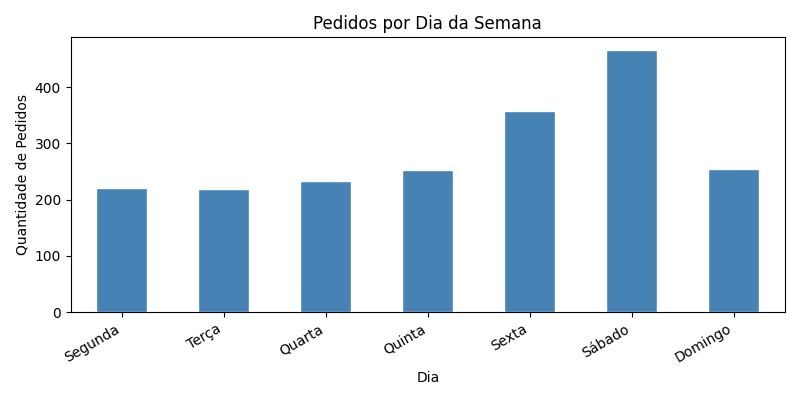
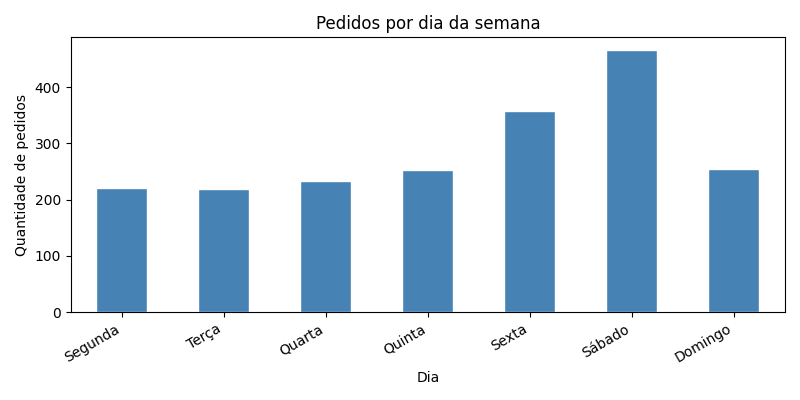
refactor: enhance data loading and visualization in analysis script; update test cases for metrics

Changed region(s): [[0.375, 0.03, 0.6875, 0.09], [0.0, 0.24, 0.0312, 0.66]]

diff --git a/backend/app/analise.py b/backend/app/analise.py
@@ -10,9 +10,9 @@ df_restaurantes = pd.read_csv("../../data/restaurantes.csv")
 df_avaliacoes = pd.read_csv("../../data/avaliacoes.csv")
 
 
-print("Pedidos carregados:", len(df_pedidos), "linhas")
-print("Restaurantes carregados:", len(df_restaurantes), "linhas")
-print("Avaliações carregadas:", len(df_avaliacoes), "linhas")
+print(f"Pedidos carregados:      {len(df_pedidos):>5} linhas")
+print(f"Restaurantes carregados: {len(df_restaurantes):>5} linhas")
+print(f"Avaliações carregadas:   {len(df_avaliacoes):>5} linhas")
 
 
 print("\nMétricas gerais:\n")
@@ -63,6 +63,7 @@ quantidade_pedidos_por_dia = (
     .groupby("dia_semana")
     .size()
     .reindex(ordem_dias_semana)
+    .rename_axis(None)
 )
 
 print(quantidade_pedidos_por_dia.to_string())
@@ -119,16 +120,16 @@ quantidade_pedidos_por_dia.plot(
     edgecolor="white"
 )
 
-ax.set_title("Pedidos por Dia da Semana")
+ax.set_title("Pedidos por dia da semana")
 ax.set_xlabel("Dia")
-ax.set_ylabel("Quantidade de Pedidos")
+ax.set_ylabel("Quantidade de pedidos")
 ax.set_xticklabels(ax.get_xticklabels(), rotation=30, ha="right")
 
 plt.tight_layout()
 plt.savefig("graficos/pedidos_por_dia.png")
 plt.close()
 
-print("Gráfico salvo: graficos/pedidos_por_dia.png")
+print("\nGráfico de pedidos por dia da semana gerado e salvo em: graficos/pedidos_por_dia_da_semana.png")
 
 
 # Gráfico 2: percentual de pedidos atrasados por clima
@@ -146,7 +147,7 @@ percentual_atraso_por_clima.plot(
     edgecolor="white"
 )
 
-ax.set_title("% de Pedidos Atrasados por Clima")
+ax.set_title("% de Pedidos atrasados por clima")
 ax.set_xlabel("Clima")
 ax.set_ylabel("% Atrasados")
 ax.set_xticklabels(ax.get_xticklabels(), rotation=0)
@@ -155,70 +156,25 @@ plt.tight_layout()
 plt.savefig("graficos/atraso_por_clima.png")
 plt.close()
 
-print("Gráfico salvo: graficos/atraso_por_clima.png")
+print("\nGráfico de atraso por clima gerado e salvo em: graficos/atraso_por_clima.png")
 
 
-# Gráfico 3: quantidade de avaliações por nota
-fig, ax = plt.subplots(figsize=(6, 4))
+# Gráfico 3: top 5 restaurantes por nota média
+fig, ax = plt.subplots(figsize=(8, 4))
 
-quantidade_avaliacoes_por_nota = (
-    df_avaliacoes["nota"]
-    .value_counts()
-    .sort_index()
-)
-
-quantidade_avaliacoes_por_nota.plot(
-    kind="bar",
+top_5_restaurantes_por_nota.sort_values().plot(
+    kind="barh",
     ax=ax,
-    color="gold",
+    color="coral",
     edgecolor="white"
 )
 
-ax.set_title("Distribuição das Notas")
-ax.set_xlabel("Nota")
-ax.set_ylabel("Quantidade de Avaliações")
-ax.set_xticklabels(ax.get_xticklabels(), rotation=0)
+ax.set_title("Top 5 restaurantes por nota média")
+ax.set_xlabel("Nota média")
+ax.set_ylabel("Restaurante")
 
 plt.tight_layout()
-plt.savefig("graficos/distribuicao_notas.png")
+plt.savefig("graficos/top5_restaurantes.png")
 plt.close()
 
-print("Gráfico salvo: graficos/distribuicao_notas.png")
-
-
-# Gráfico 4: valor médio dos pedidos por tipo de culinária
-df_pedidos_com_culinaria = df_pedidos.merge(
-    df_restaurantes[["id_restaurante", "tipo_culinaria"]],
-    on="id_restaurante"
-)
-
-valor_medio_pedido_por_culinaria = (
-    df_pedidos_com_culinaria
-    .groupby("tipo_culinaria")["valor_pedido"]
-    .mean()
-    .sort_values(ascending=False)
-)
-
-fig, ax = plt.subplots(figsize=(9, 4))
-
-valor_medio_pedido_por_culinaria.plot(
-    kind="bar",
-    ax=ax,
-    color="mediumseagreen",
-    edgecolor="white"
-)
-
-ax.set_title("Ticket Médio por Tipo de Culinária")
-ax.set_xlabel("Tipo de Culinária")
-ax.set_ylabel("Valor Médio (R$)")
-ax.set_xticklabels(ax.get_xticklabels(), rotation=35, ha="right")
-
-plt.tight_layout()
-plt.savefig("graficos/ticket_por_culinaria.png")
-plt.close()
-
-print("Gráfico salvo: graficos/ticket_por_culinaria.png")
-
-
-print()
-print("Análise concluída!")
+print("\nGráfico de top 5 restaurantes gerado e salvo em: graficos/top5_restaurantes.png")

diff --git a/backend/app/test_metricas.py b/backend/app/test_metricas.py
@@ -5,16 +5,28 @@ import pytest
 @pytest.fixture
 def pedidos():
     return pd.DataFrame({
-        "valor_pedido": [50.0, 30.0, 20.0, 100.0],
-        "atrasado":     [1,    0,    1,    0],
-        "tempo_total_minutos": [40, 20, 60, 30],
+        "valor_pedido":        [50.0, 30.0, 20.0, 100.0],
+        "atrasado":            [1,    0,    1,    0],
+        "tempo_total_minutos": [40,   20,   60,   30],
+        "dia_semana":          ["Segunda", "Sexta", "Segunda", "Sábado"],
+        "clima":               ["Chuvoso", "Ensolarado", "Chuvoso", "Nublado"],
+        "id_restaurante":      [1, 2, 1, 3],
     })
 
 
 @pytest.fixture
 def avaliacoes():
     return pd.DataFrame({
-        "nota": [5, 4, 3, 4],
+        "nota":           [5, 4, 3, 4, 2, 5],
+        "id_restaurante": [1, 1, 2, 2, 3, 3],
+    })
+
+
+@pytest.fixture
+def restaurantes():
+    return pd.DataFrame({
+        "id_restaurante":  [1, 2, 3],
+        "nome_restaurante": ["Restaurante A", "Restaurante B", "Restaurante C"],
     })
 
 
@@ -37,7 +49,7 @@ def test_tempo_medio_entrega(pedidos):
 
 def test_nota_media(avaliacoes):
     nota_media = avaliacoes["nota"].mean()
-    assert nota_media == pytest.approx(4.0)
+    assert nota_media == pytest.approx(23 / 6)
 
 
 def test_ticket_medio_pedido_unico():
@@ -53,3 +65,38 @@ def test_percentual_atraso_zero():
 def test_percentual_atraso_total():
     df = pd.DataFrame({"atrasado": [1, 1, 1]})
     assert (df["atrasado"].sum() / len(df)) * 100 == pytest.approx(100.0)
+
+
+def test_pedidos_por_dia(pedidos):
+    ordem = ["Segunda", "Terça", "Quarta", "Quinta", "Sexta", "Sábado", "Domingo"]
+    resultado = pedidos.groupby("dia_semana").size().reindex(ordem)
+    assert resultado["Segunda"] == 2
+    assert resultado["Sexta"] == 1
+    assert resultado["Sábado"] == 1
+    assert resultado.fillna(0)["Terça"] == 0
+
+
+def test_atraso_por_clima(pedidos):
+    resultado = (
+        pedidos
+        .groupby("clima")["atrasado"]
+        .mean()
+        .mul(100)
+    )
+    assert resultado["Chuvoso"] == pytest.approx(100.0)
+    assert resultado["Ensolarado"] == pytest.approx(0.0)
+    assert resultado["Nublado"] == pytest.approx(0.0)
+
+
+def test_top5_restaurantes(avaliacoes, restaurantes):
+    df = avaliacoes.merge(restaurantes, on="id_restaurante")
+    top5 = (
+        df.groupby("nome_restaurante")["nota"]
+        .mean()
+        .sort_values(ascending=False)
+        .head(5)
+    )
+    assert top5.index[0] == "Restaurante A"
+    assert top5["Restaurante A"] == pytest.approx(4.5)
+    assert top5["Restaurante B"] == pytest.approx(3.5)
+    assert top5["Restaurante C"] == pytest.approx(3.5)
